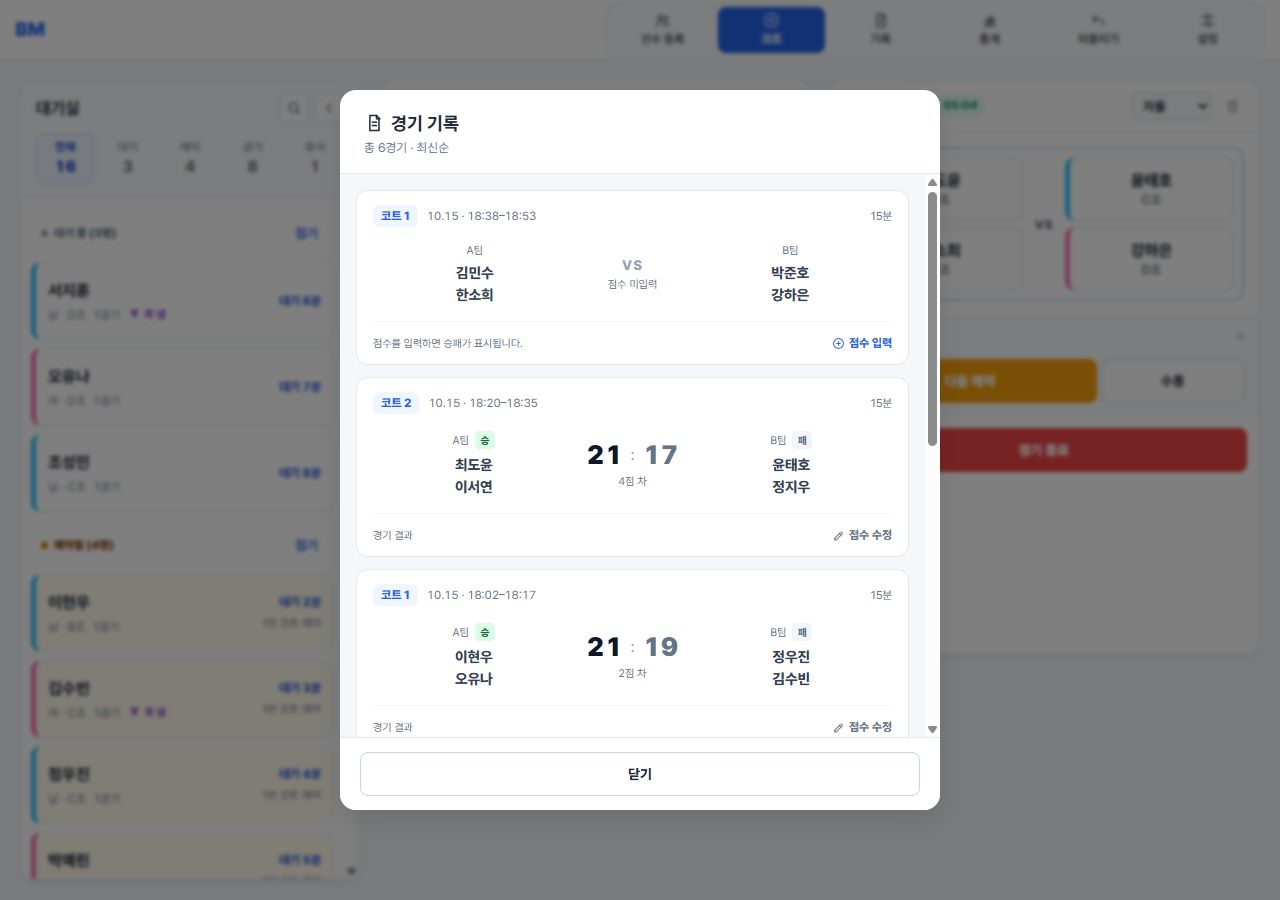
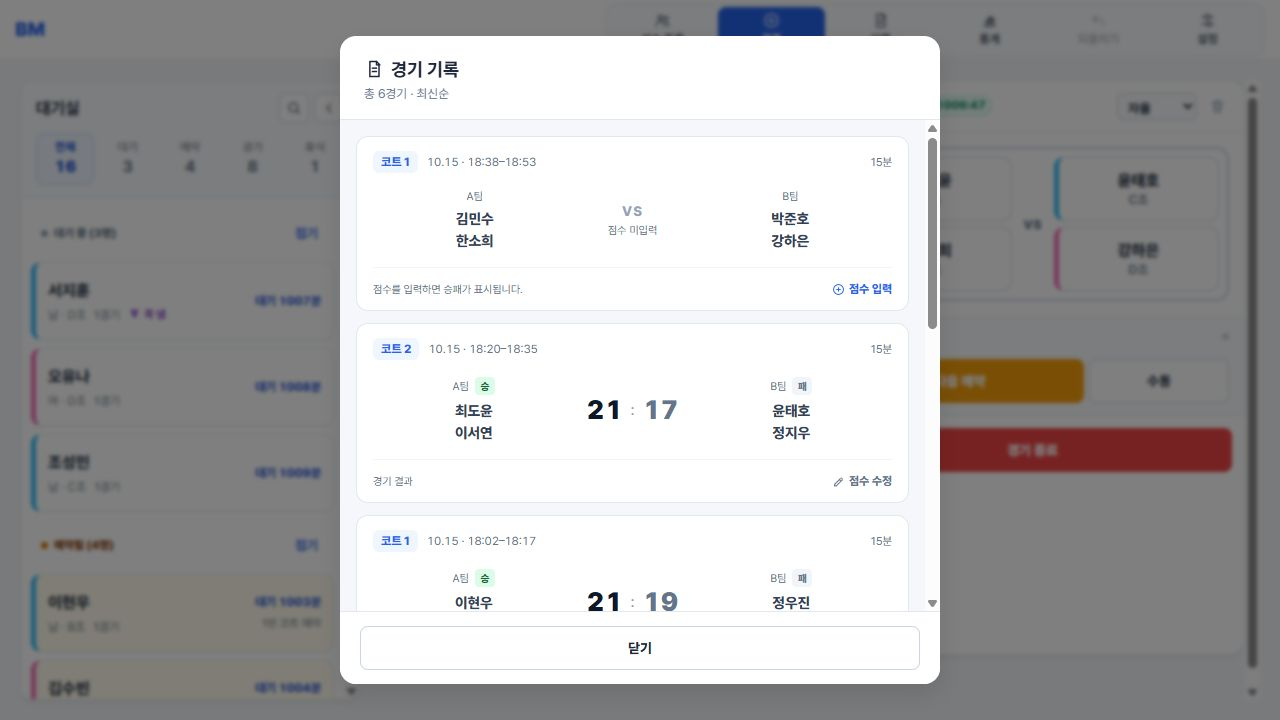
Unify profile selectors and court management UI

diff --git a/index.html b/index.html
@@ -116,10 +116,23 @@
     <div class="dialog-heading"><svg class="ui-icon" aria-hidden="true"><use href="#icon-users"></use></svg><h3 id="pModalTitle">선수 등록</h3></div>
     <div class="dialog-body">
     <label for="pName">이름</label><input type="text" id="pName" placeholder="이름 입력" autocomplete="off">
-    <div class="form-grid">
-        <div><label for="pGen">성별</label><select id="pGen"><option value="M">남성</option><option value="F">여성</option></select></div>
-        <div><label for="pTier">급수</label><select id="pTier"><option value="5">A조</option><option value="4">B조</option><option value="3">C조</option><option value="2">D조</option><option value="1" selected>E조</option></select></div>
-    </div>
+    <input type="hidden" id="pGen" value="M">
+    <fieldset class="profile-choice-field"><legend>성별</legend>
+        <div class="profile-options profile-gender-options">
+            <label><input type="radio" name="pGenChoice" id="pGen-M" value="M" checked onchange="document.getElementById('pGen').value=this.value"><span>남성</span></label>
+            <label><input type="radio" name="pGenChoice" id="pGen-F" value="F" onchange="document.getElementById('pGen').value=this.value"><span>여성</span></label>
+        </div>
+    </fieldset>
+    <input type="hidden" id="pTier" value="1">
+    <fieldset class="profile-choice-field"><legend>급수</legend>
+        <div class="profile-options profile-tier-options">
+            <label><input type="radio" name="pTierChoice" id="pTier-5" value="5" onchange="document.getElementById('pTier').value=this.value"><span>A조</span></label>
+            <label><input type="radio" name="pTierChoice" id="pTier-4" value="4" onchange="document.getElementById('pTier').value=this.value"><span>B조</span></label>
+            <label><input type="radio" name="pTierChoice" id="pTier-3" value="3" onchange="document.getElementById('pTier').value=this.value"><span>C조</span></label>
+            <label><input type="radio" name="pTierChoice" id="pTier-2" value="2" onchange="document.getElementById('pTier').value=this.value"><span>D조</span></label>
+            <label><input type="radio" name="pTierChoice" id="pTier-1" value="1" checked onchange="document.getElementById('pTier').value=this.value"><span>E조</span></label>
+        </div>
+    </fieldset>
     <label for="pGames">실제 경기 수</label>
     <input type="number" id="pGames" min="0" step="1" value="0" inputmode="numeric">
     <p id="playerMatchingInfo" class="field-note"></p>
@@ -151,10 +164,23 @@
     <p class="field-note">한 줄에 한 명씩 입력하세요.</p>
     <textarea id="bulkNames" rows="5" placeholder="김철수&#13;&#10;이영희&#13;&#10;박지성"></textarea>
 
-    <div class="form-grid">
-        <div><label for="bulkGen">성별</label><select id="bulkGen"><option value="M">남성</option><option value="F">여성</option></select></div>
-        <div><label for="bulkTier">급수</label><select id="bulkTier"><option value="5">A조</option><option value="4">B조</option><option value="3">C조</option><option value="2">D조</option><option value="1" selected>E조</option></select></div>
-    </div>
+    <input type="hidden" id="bulkGen" value="M">
+    <fieldset class="profile-choice-field"><legend>성별</legend>
+        <div class="profile-options profile-gender-options">
+            <label><input type="radio" name="bulkGenChoice" id="bulkGen-M" value="M" checked onchange="document.getElementById('bulkGen').value=this.value"><span>남성</span></label>
+            <label><input type="radio" name="bulkGenChoice" id="bulkGen-F" value="F" onchange="document.getElementById('bulkGen').value=this.value"><span>여성</span></label>
+        </div>
+    </fieldset>
+    <input type="hidden" id="bulkTier" value="1">
+    <fieldset class="profile-choice-field"><legend>급수</legend>
+        <div class="profile-options profile-tier-options">
+            <label><input type="radio" name="bulkTierChoice" id="bulkTier-5" value="5" onchange="document.getElementById('bulkTier').value=this.value"><span>A조</span></label>
+            <label><input type="radio" name="bulkTierChoice" id="bulkTier-4" value="4" onchange="document.getElementById('bulkTier').value=this.value"><span>B조</span></label>
+            <label><input type="radio" name="bulkTierChoice" id="bulkTier-3" value="3" onchange="document.getElementById('bulkTier').value=this.value"><span>C조</span></label>
+            <label><input type="radio" name="bulkTierChoice" id="bulkTier-2" value="2" onchange="document.getElementById('bulkTier').value=this.value"><span>D조</span></label>
+            <label><input type="radio" name="bulkTierChoice" id="bulkTier-1" value="1" checked onchange="document.getElementById('bulkTier').value=this.value"><span>E조</span></label>
+        </div>
+    </fieldset>
     </div>
     <div class="dialog-actions">
         <button class="btn btn-primary" onclick="saveBulkPlayers()">저장</button>
@@ -213,13 +239,23 @@
     <div class="dialog-body">
     <label id="memberNamesLabel" for="memberNames">이름 (여러 명은 줄바꿈으로 구분)</label>
     <textarea id="memberNames" rows="4"></textarea>
-    <div class="form-grid"><div>
-    <label for="memberGender">성별</label>
-    <select id="memberGender"><option value="M">남성</option><option value="F">여성</option></select>
-    </div><div>
-    <label for="memberTier">급수</label>
-    <select id="memberTier"><option value="5">A조</option><option value="4">B조</option><option value="3">C조</option><option value="2">D조</option><option value="1" selected>E조</option></select>
-    </div></div>
+    <input type="hidden" id="memberGender" value="M">
+    <fieldset class="profile-choice-field"><legend>성별</legend>
+        <div class="profile-options profile-gender-options">
+            <label><input type="radio" name="memberGenderChoice" id="memberGender-M" value="M" checked onchange="document.getElementById('memberGender').value=this.value"><span>남성</span></label>
+            <label><input type="radio" name="memberGenderChoice" id="memberGender-F" value="F" onchange="document.getElementById('memberGender').value=this.value"><span>여성</span></label>
+        </div>
+    </fieldset>
+    <input type="hidden" id="memberTier" value="1">
+    <fieldset class="profile-choice-field"><legend>급수</legend>
+        <div class="profile-options profile-tier-options">
+            <label><input type="radio" name="memberTierChoice" id="memberTier-5" value="5" onchange="document.getElementById('memberTier').value=this.value"><span>A조</span></label>
+            <label><input type="radio" name="memberTierChoice" id="memberTier-4" value="4" onchange="document.getElementById('memberTier').value=this.value"><span>B조</span></label>
+            <label><input type="radio" name="memberTierChoice" id="memberTier-3" value="3" onchange="document.getElementById('memberTier').value=this.value"><span>C조</span></label>
+            <label><input type="radio" name="memberTierChoice" id="memberTier-2" value="2" onchange="document.getElementById('memberTier').value=this.value"><span>D조</span></label>
+            <label><input type="radio" name="memberTierChoice" id="memberTier-1" value="1" checked onchange="document.getElementById('memberTier').value=this.value"><span>E조</span></label>
+        </div>
+    </fieldset>
     <div class="player-delete-zone">
         <button id="deleteMemberButton" type="button" class="player-delete-button" onclick="deleteMember(editMemberId)" hidden>회원 명단에서 삭제</button>
     </div>
@@ -450,9 +486,15 @@
 <div id="transferModal" class="modal" role="dialog" aria-modal="true" aria-labelledby="transferTitle"><div class="modal-box form-modal dialog-compact">
     <div class="dialog-heading"><svg class="ui-icon" aria-hidden="true"><use href="#icon-resume"></use></svg><h3 id="transferTitle">코트 변경</h3></div>
     <div class="dialog-body">
-    <p id="transferHelp" class="field-note">대상 코트를 선택하세요.</p>
-    <label for="transferCourtSelect">대상 코트</label>
-    <select id="transferCourtSelect" aria-label="대상 코트" onchange="updateTransferNextPreview()"></select>
+    <section class="transfer-source" aria-label="현재 예약">
+        <div class="transfer-court-heading"><strong id="transferSourceName"></strong><span class="transfer-state">현재 예약</span></div>
+        <div id="transferSourcePlayers" class="transfer-players"></div>
+    </section>
+    <input type="hidden" id="transferCourtSelect">
+    <fieldset class="profile-choice-field"><legend>변경할 코트</legend>
+        <div id="transferCourtOptions" class="transfer-court-options"></div>
+    </fieldset>
+    <p id="transferHelp" class="field-note transfer-preview" role="status" aria-live="polite">대상 코트를 선택하세요.</p>
     </div><div class="dialog-actions">
         <button id="transferConfirmButton" class="btn btn-primary" onclick="confirmTransferNext()">코트 변경</button>
         <button class="btn btn-outline" onclick="closeTransferModal()">취소</button>

diff --git a/css/style.css b/css/style.css
@@ -419,8 +419,40 @@ label { display: block; font-size: 0.85rem; font-weight: 700; color: #64748b; ma
 .dialog-actions>.btn-primary, .dialog-actions>.btn-danger { flex:2; }
 .form-grid { display:grid; grid-template-columns:repeat(2,minmax(0,1fr)); gap:12px; }
 .form-grid>div { min-width:0; }
+.profile-choice-field { min-width:0; margin:0 0 16px; padding:0; border:0; }
+.profile-choice-field legend { margin-bottom:7px; padding:0; color:var(--text-secondary); font-size:0.85rem; font-weight:700; }
+.profile-options { display:grid; gap:6px; }
+.profile-gender-options { grid-template-columns:repeat(2,minmax(0,1fr)); }
+.profile-tier-options { grid-template-columns:repeat(5,minmax(0,1fr)); gap:4px; }
+.profile-options label { position:relative; min-width:0; margin:0; cursor:pointer; }
+.profile-options input { position:absolute; width:1px; height:1px; padding:0; margin:0; opacity:0; }
+.profile-options span { display:flex; align-items:center; justify-content:center; min-height:var(--control-height); border:1px solid var(--border); border-radius:var(--radius-control); background:var(--surface-muted); color:var(--text-body); font-size:0.88rem; font-weight:700; }
+.profile-options input:checked+span { border-color:var(--primary); background:#eff6ff; color:#1d4ed8; box-shadow:inset 0 0 0 1px var(--primary); }
+.profile-options input:focus-visible { outline:none; }
+.profile-options input:focus-visible+span { outline:2px solid var(--primary); outline-offset:2px; }
+@media (hover:hover) {
+    .profile-options label:hover span { border-color:#93c5fd; }
+}
 .field-note { margin:0 0 16px; color:var(--text-secondary); font-size:0.82rem; line-height:1.65; }
 .field-error { min-height:20px; margin:8px 0 0; color:var(--danger); font-size:0.8rem; font-weight:700; }
+.transfer-source { margin:0 0 20px; padding:12px; border:1px solid var(--border); border-radius:var(--radius-card); background:var(--surface-muted); }
+.transfer-court-heading { display:flex; align-items:center; justify-content:space-between; gap:8px; }
+.transfer-court-heading strong { color:var(--dark); font-size:0.9rem; font-weight:800; }
+.transfer-state { flex:0 0 auto; padding:3px 7px; border-radius:6px; background:#f1f5f9; color:var(--text-secondary); font-size:0.7rem; font-weight:700; }
+.transfer-state.is-playing { background:var(--playing-panel); color:#047857; }
+.transfer-court-options { display:grid; gap:8px; }
+.transfer-court-option { position:relative; margin:0; cursor:pointer; }
+.transfer-court-option>input { position:absolute; width:1px; height:1px; margin:0; padding:0; opacity:0; }
+.transfer-court-card { display:block; min-height:76px; padding:12px; border:1px solid var(--border); border-radius:var(--radius-card); background:var(--card); }
+.transfer-court-option>input:checked+.transfer-court-card { border-color:var(--primary); background:#eff6ff; box-shadow:inset 0 0 0 1px var(--primary); }
+.transfer-court-option>input:focus-visible { outline:none; }
+.transfer-court-option>input:focus-visible+.transfer-court-card { outline:2px solid var(--primary); outline-offset:2px; }
+.transfer-reservation-label { display:block; margin-top:7px; color:var(--text-secondary); font-size:0.75rem; font-weight:500; }
+.transfer-players { display:grid; grid-template-columns:minmax(0,1fr) 26px minmax(0,1fr); align-items:center; gap:8px; margin-top:10px; color:var(--text-body); font-size:0.82rem; line-height:1.4; }
+.transfer-team { min-width:0; display:grid; gap:5px; padding:9px 8px; border:1px solid var(--border); border-radius:8px; background:var(--card); text-align:center; }
+.transfer-player { min-width:0; display:block; overflow:hidden; text-overflow:ellipsis; white-space:nowrap; font-weight:750; }
+.transfer-versus { color:#475569; font-size:0.75rem; font-weight:850; text-align:center; }
+.transfer-preview { padding:11px 12px; border-radius:var(--radius-control); background:var(--surface-muted); color:var(--text-body); }
 .confirm-message { white-space:pre-wrap; margin:0; line-height:1.75; color:var(--text-body); font-size:0.88rem; overflow-wrap:anywhere; }
 .picker-modal { height:min(720px,90dvh); }
 .picker-note { flex:0 0 auto; margin:0; padding:14px 20px; color:var(--text-secondary); font-size:0.82rem; line-height:1.6; }
@@ -428,11 +460,6 @@ label { display: block; font-size: 0.85rem; font-weight: 700; color: #64748b; ma
 .picker-section-label { margin:0; padding:4px 2px; color:var(--text-secondary); font-size:0.78rem; font-weight:750; }
 .picker-section-label:not(:first-child) { margin-top:14px; }
 .picker-section-description { margin:0 2px 4px; color:var(--text-secondary); font-size:0.75rem; line-height:1.5; }
-.team-change-choice { display:flex; align-items:center; justify-content:space-between; gap:10px; padding:12px 14px; min-height:60px; background:#fff; border:1px solid var(--border); border-radius:10px; color:var(--dark); font:inherit; text-align:left; cursor:pointer; }
-.team-change-choice:hover { background:#eff6ff; border-color:#93c5fd; }
-.team-change-choice strong { display:block; font-size:0.9rem; }
-.team-change-choice small { display:block; margin-top:4px; color:var(--text-secondary); font-size:0.73rem; }
-.team-change-choice>.ui-icon { width:17px; height:17px; color:var(--primary); }
 
 .history-modal-box { width:600px; height:min(720px, 90dvh); padding:0; overflow:hidden; }
 .history-heading { flex:0 0 auto; padding:22px 24px 18px; border-bottom:1px solid var(--border); }
@@ -466,7 +493,7 @@ label { display: block; font-size: 0.85rem; font-weight: 700; color: #64748b; ma
 .history-scores strong { font-size:1.65rem; line-height:1.2; color:#64748b; font-weight:850; }
 .history-scores .winning-score { color:#0f172a; }
 .history-versus { font-size:0.85rem; font-weight:750; color:#94a3b8; letter-spacing:1px; }
-.history-score-diff { display:block; margin-top:5px; font-size:0.68rem; color:#64748b; white-space:nowrap; }
+.history-score-note { display:block; margin-top:5px; font-size:0.68rem; color:#64748b; white-space:nowrap; }
 .history-item-footer { display:flex; justify-content:space-between; align-items:center; gap:8px; min-height:43px; border-top:1px solid #f1f5f9; }
 .history-item-footer>span { color:#64748b; font-size:0.67rem; }
 .history-score-button { flex:0 0 auto; display:inline-flex; align-items:center; justify-content:center; gap:4px; min-height:40px; padding:7px 0 7px 9px; background:none; border:0; color:#64748b; font:inherit; font-size:0.73rem; font-weight:750; cursor:pointer; }

diff --git a/js/courts.js b/js/courts.js
@@ -139,15 +139,30 @@ function cancelNext(cId) {
     render();
 }
 
+function renderTransferPlayers(match) {
+    const names = match.map(player => escapeHTML(player.name));
+    if(names.length !== 4) return `<span>${names.join(' · ')}</span>`;
+    const renderTeam = team => `<span class="transfer-team">${team.map(name => `<span class="transfer-player" title="${name}">${name}</span>`).join('')}</span>`;
+    return `${renderTeam(names.slice(0, 2))}<span class="transfer-versus" aria-label="대">VS</span>${renderTeam(names.slice(2))}`;
+}
+
 function openTransferNext(cId) {
     const source = courts.find(c => c.id === cId);
     if(!source || source.next.length === 0) return showToast("이동할 다음 대기 선수가 없습니다.");
     const targets = courts.filter(c => c.id !== cId);
     if(targets.length === 0) return showToast("변경할 다른 코트가 없습니다.");
     transferSourceCourtId = cId;
-    const select = document.getElementById('transferCourtSelect');
-    select.innerHTML = targets.map(c => `<option value="${c.id}">${courtLabel(c.id)} · ${c.active.length ? '경기 중' : '경기 없음'} · ${c.next.length ? '예약 있음' : '예약 없음'}</option>`).join('');
-    select.value = String(targets[0].id);
+    document.getElementById('transferSourceName').innerText = courtLabel(source.id);
+    document.getElementById('transferSourcePlayers').innerHTML = renderTransferPlayers(source.next);
+    document.getElementById('transferCourtSelect').value = String(targets[0].id);
+    document.getElementById('transferCourtOptions').innerHTML = targets.map(c => `<label class="transfer-court-option">
+        <input type="radio" name="transferCourt" id="transfer-court-${c.id}" value="${c.id}" onchange="document.getElementById('transferCourtSelect').value=this.value; updateTransferNextPreview()">
+        <span class="transfer-court-card">
+            <span class="transfer-court-heading"><strong>${courtLabel(c.id)}</strong><span class="transfer-state ${c.active.length ? 'is-playing' : ''}">${c.active.length ? '경기 중' : '비어 있음'}</span></span>
+            <span class="transfer-reservation-label">${c.next.length ? '예약 있음' : '예약 없음'}</span>
+            ${c.next.length ? `<span class="transfer-players">${renderTransferPlayers(c.next)}</span>` : ''}
+        </span>
+    </label>`).join('');
     updateTransferNextPreview();
     document.getElementById('transferModal').style.display = 'flex';
 }
@@ -155,6 +170,9 @@ function openTransferNext(cId) {
 function updateTransferNextPreview() {
     const source = courts.find(c => c.id === transferSourceCourtId);
     const target = courts.find(c => c.id === Number(document.getElementById('transferCourtSelect').value));
+    courts.filter(c => c.id !== transferSourceCourtId).forEach(c => {
+        document.getElementById(`transfer-court-${c.id}`).checked = c.id === target?.id;
+    });
     const swap = Boolean(target && target.next.length);
     document.getElementById('transferHelp').innerText = source && target
         ? swap ? `${courtLabel(source.id)}의 예약은 ${courtLabel(target.id)}로, ${courtLabel(target.id)}의 예약은 ${courtLabel(source.id)}로 옮깁니다. 선수와 팀 구성은 그대로 유지됩니다.`
@@ -233,8 +251,9 @@ function renderSwapList() {
         match.forEach((player, index) => {
             if(Math.floor(index / 2) === Math.floor(swapTarget.idx / 2)) return;
             if(court.type === 'X' && player.gender !== selected.gender) return;
-            list.innerHTML += `<button type="button" class="team-change-choice" onclick="changeCourtTeam(${index}, ${player.id})" aria-label="${escapeHTML(selected.name)}와 ${escapeHTML(player.name)} 자리 바꾸기">
-                <span><strong>${escapeHTML(player.name)}</strong><small>상대 팀 · ${player.gender === 'M' ? '남' : '여'} · ${tiers[player.tier]}</small></span>${renderUIIcon('swap')}
+            const status = isPlayerInCourtArea(player.id, 'active') ? 'playing' : player.status;
+            list.innerHTML += `<button type="button" class="player-chip waiting-chip roster-chip manual-chip swap-chip gender-card ${getGenderCardClass(player.gender)} roster-status-${status} team-change-choice" onclick="changeCourtTeam(${index}, ${player.id})" aria-label="${escapeHTML(selected.name)}와 ${escapeHTML(player.name)} 자리 바꾸기">
+                ${renderRosterSummary(player, 'swap-', status)}
             </button>`;
         });
     }

diff --git a/tests/swap-behavior.test.js b/tests/swap-behavior.test.js
@@ -5,8 +5,8 @@ const assert = require('node:assert/strict');
 
 const { html, styles, appSource, runApp } = require('./helpers/app-runtime');
 const serviceWorker = fs.readFileSync('service-worker.js', 'utf8');
-if (html.includes('>F조</option>') || appSource.includes('const tiers = ["F조"') || !html.includes('<option value="1" selected>E조</option>')) throw new Error('F조가 제거되지 않았거나 E조가 기본 급수로 설정되지 않았습니다.');
-if (!serviceWorker.includes('app-v33') || !serviceWorker.includes('runtime-v33') || !appSource.includes("navigator.serviceWorker.addEventListener('controllerchange'")) throw new Error('배포 후 최신 화면을 적용하는 서비스 워커 캐시 갱신 처리가 없습니다.');
+if (html.includes('>F조</option>') || appSource.includes('const tiers = ["F조"') || !['pTier','bulkTier','memberTier'].every(field => html.includes(`id="${field}-1" value="1" checked`))) throw new Error('F조가 제거되지 않았거나 E조가 기본 급수로 설정되지 않았습니다.');
+if (!serviceWorker.includes('app-v39') || !serviceWorker.includes('runtime-v39') || !appSource.includes("navigator.serviceWorker.addEventListener('controllerchange'")) throw new Error('배포 후 최신 화면을 적용하는 서비스 워커 캐시 갱신 처리가 없습니다.');
 
 function createPlayers() {
     return Array.from({ length: 13 }, (_, index) => ({
@@ -703,7 +703,7 @@ test('두 예약의 코트 변경은 팀 순서와 진행 경기·타이머·선
     const before = run('serializeState()');
     const untouched = run('JSON.stringify({players,history,active:courts.map(c=>[c.active,c.startTime,c.type])})');
     run('openTransferNext(1)');
-    assert.ok(context.__elements.get('transferCourtSelect').innerHTML.includes('예약 있음'));
+    assert.ok(context.__elements.get('transferCourtOptions').innerHTML.includes('예약 있음'));
     assert.match(html, /id="transferConfirmButton"[^>]*>코트 변경<\/button>/);
     run('confirmTransferNext(); confirmTransferNext()');
     assert.equal(run('courts[0].next.map(p=>p.id).join(",")'),'13,14,15,16');

diff --git a/js/statistics.js b/js/statistics.js
@@ -375,7 +375,7 @@ function openHistory() {
         let resultHTML = '';
         const isDraw = hasScore && scores[0] === scores[1];
         const winnerIndex = !hasScore || isDraw ? -1 : scores[0] > scores[1] ? 0 : 1;
-        const resultLabel = hasScore ? isDraw ? '무승부' : `${Math.abs(scores[0] - scores[1])}점 차` : '점수 미입력';
+        const scoreNote = !hasScore ? '점수 미입력' : isDraw ? '무승부' : '';
 
         if(teams) {
             const renderTeam = teamIndex => {
@@ -387,9 +387,9 @@ function openHistory() {
             };
             resultHTML = `<div class="history-result">
                 ${renderTeam(0)}
-                <div class="history-scoreboard" aria-label="${hasScore ? `${scores[0]} 대 ${scores[1]}, ${resultLabel}` : '점수 미입력'}">
+                <div class="history-scoreboard" aria-label="${hasScore ? `${scores[0]} 대 ${scores[1]}` : '점수 미입력'}">
                     <div class="history-scores">${hasScore ? `<strong class="${winnerIndex === 0 ? 'winning-score' : ''}">${scores[0]}</strong><span>:</span><strong class="${winnerIndex === 1 ? 'winning-score' : ''}">${scores[1]}</strong>` : '<span class="history-versus">VS</span>'}</div>
-                    <span class="history-score-diff">${resultLabel}</span>
+                    ${scoreNote ? `<span class="history-score-note">${scoreNote}</span>` : ''}
                 </div>
                 ${renderTeam(1)}
             </div>`;

diff --git a/js/players.js b/js/players.js
@@ -66,8 +66,8 @@ function openPModal(id=null) {
     editPId = id; const p = players.find(x=>x.id===id);
     document.getElementById('pModalTitle').innerText = id ? "선수 정보 수정" : "선수 등록";
     document.getElementById('pName').value = id ? p.name : "";
-    document.getElementById('pGen').value = id ? p.gender : "M";
-    document.getElementById('pTier').value = id ? p.tier : "1";
+    setFormChoice('pGen', id ? p.gender : 'M', ['M', 'F']);
+    setFormChoice('pTier', id ? p.tier : 1, [5, 4, 3, 2, 1]);
     document.getElementById('pGames').value = id ? p.games : 0;
     document.getElementById('playerMatchingInfo').innerText = id
         ? `실제 ${p.games}경기 · 매칭 기준 ${getMatchingGameCount(p)}경기 (보정 +${getMatchingGameCount(p) - p.games})`
@@ -83,6 +83,8 @@ function closePModal() { document.getElementById('pModal').style.display='none';
 
 function openBulkPModal() {
     document.getElementById('bulkNames').value = '';
+    setFormChoice('bulkGen', document.getElementById('bulkGen').value, ['M', 'F']);
+    setFormChoice('bulkTier', document.getElementById('bulkTier').value, [5, 4, 3, 2, 1]);
     document.getElementById('bulkPModal').style.display = 'flex';
     document.getElementById('bulkNames').focus();
 }

diff --git a/tests/player-statistics.test.js b/tests/player-statistics.test.js
@@ -187,7 +187,8 @@ test('점수 수정은 선택한 기록에 저장되고 최신순·승패 표시
     vm.runInContext('saveHistoryScore()',runtime);
     assertInRuntime(runtime,'history[0].scores[0]===0 && history[0].scores[1]===21 && history[1].scores[0]===21 && history[1].scores[1]===19','다른 기록에 점수가 저장됐습니다.');
     const content=runtime.__elements.get('historyList').innerHTML;
-    assert.ok(content.includes('0 대 21, 21점 차') && content.includes('21 대 19, 2점 차'));
+    assert.ok(content.includes('aria-label="0 대 21"') && content.includes('aria-label="21 대 19"'));
+    assert.ok(!content.includes('점 차'));
     assert.ok(content.includes('history-result-badge win') && content.includes('history-result-badge loss'));
     assert.ok(content.indexOf('editHistoryScore(0)')<content.indexOf('editHistoryScore(1)'));
     vm.runInContext('undoLastAction(); onConfirmAction()',runtime);

diff --git a/js/members.js b/js/members.js
@@ -103,8 +103,8 @@ function openMemberEditor(id = null) {
     document.getElementById('memberNamesLabel').textContent = member ? '이름' : '이름 (여러 명은 줄바꿈으로 구분)';
     document.getElementById('memberNames').rows = member ? 1 : 4;
     document.getElementById('memberNames').value = member ? member.name : '';
-    document.getElementById('memberGender').value = member ? member.gender : 'M';
-    document.getElementById('memberTier').value = member ? member.tier : '1';
+    setFormChoice('memberGender', member ? member.gender : 'M', ['M', 'F']);
+    setFormChoice('memberTier', member ? member.tier : 1, [5, 4, 3, 2, 1]);
     document.getElementById('deleteMemberButton').hidden = !member;
     document.getElementById('memberEditorModal').style.display = 'flex';
     document.getElementById('memberNames').focus();

diff --git a/js/ui.js b/js/ui.js
@@ -1,5 +1,12 @@
 // Shared dialogs, roster/court rendering, and responsive navigation.
 
+function setFormChoice(fieldId, value, options) {
+    document.getElementById(fieldId).value = String(value);
+    options.forEach(option => {
+        document.getElementById(`${fieldId}-${option}`).checked = String(option) === String(value);
+    });
+}
+
 function setMobileView(view) {
     const showWaitingRoom = view === 'waiting';
     const mainContainer = document.getElementById('mainContainer');

diff --git a/service-worker.js b/service-worker.js
@@ -1,6 +1,6 @@
 const CACHE_PREFIX = 'badminton-manager-';
-const APP_CACHE = `${CACHE_PREFIX}app-v33`;
-const RUNTIME_CACHE = `${CACHE_PREFIX}runtime-v33`;
+const APP_CACHE = `${CACHE_PREFIX}app-v39`;
+const RUNTIME_CACHE = `${CACHE_PREFIX}runtime-v39`;
 
 const APP_SHELL = [
     './',

diff --git a/README.md b/README.md
@@ -63,7 +63,7 @@
 
 ## 경기 기록과 통계
 
-상단 `기록`에서는 최근 경기가 먼저 표시됩니다. 각 카드에서 코트 번호, 시작·종료 시각, 경기 시간, 두 팀의 선수를 확인할 수 있습니다. `점수 입력`으로 점수를 저장하면 점수 차와 승패가 표시되고, 이후 `점수 수정`으로 변경할 수 있습니다. 경기 기록은 최대 200개를 보관합니다.
+상단 `기록`에서는 최근 경기가 먼저 표시됩니다. 각 카드에서 코트 번호, 시작·종료 시각, 경기 시간, 두 팀의 선수를 확인할 수 있습니다. `점수 입력`으로 점수를 저장하면 두 팀 점수와 승패가 표시되고, 이후 `점수 수정`으로 변경할 수 있습니다. 경기 기록은 최대 200개를 보관합니다.
 
 상단 `통계`에서는 전체 출전 현황과 자주 함께한 조합을 확인합니다. 선수별 통계에서는 같은 팀과 상대 팀으로 만난 횟수를 나누어 보여줍니다. 화면의 경기 수는 실제 입력·완료 경기 수를 사용하며, 출전·조합 통계는 보관된 경기 기록을 기준으로 합니다. 매칭 보정값은 포함하지 않습니다.
 
